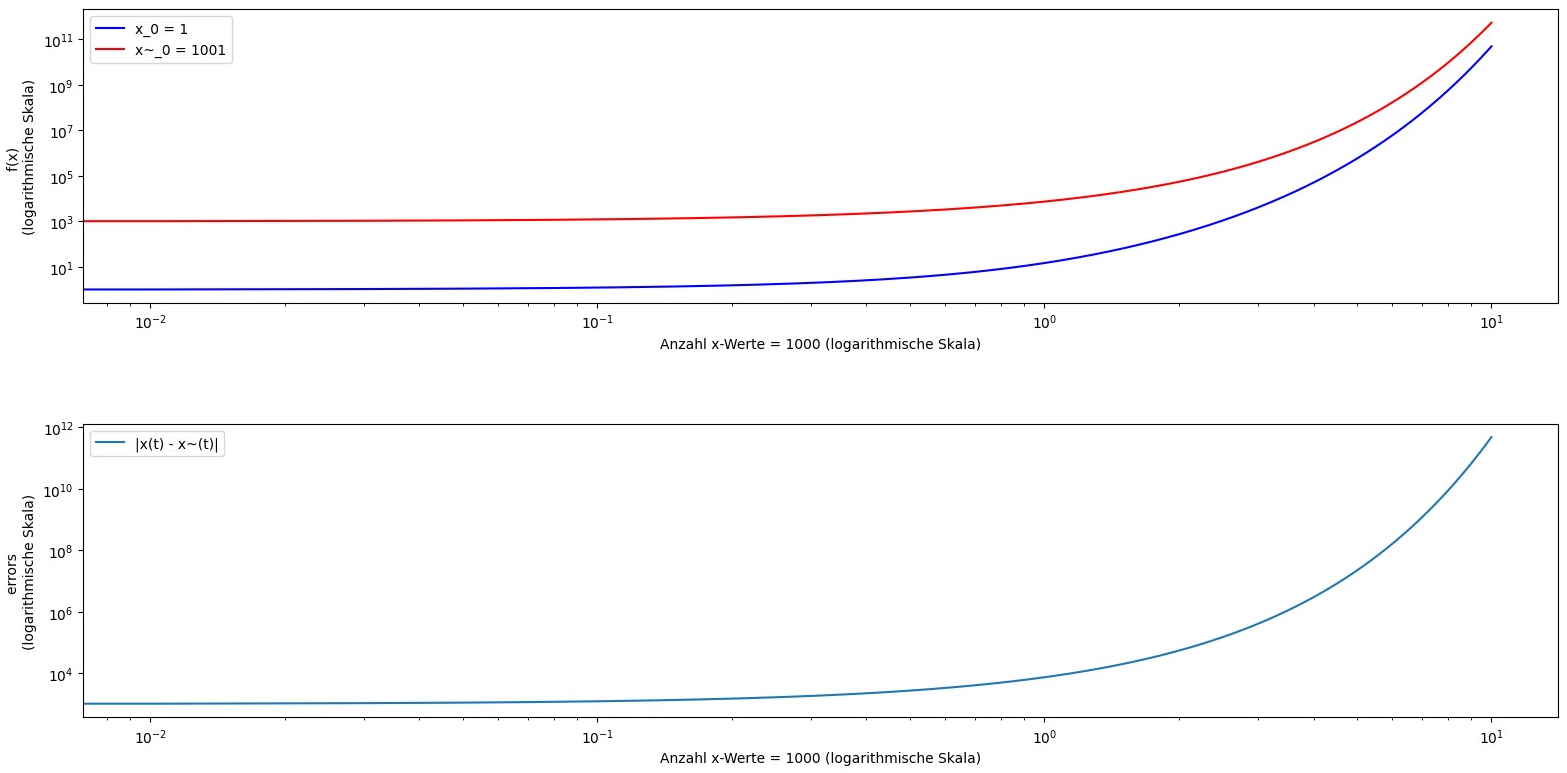
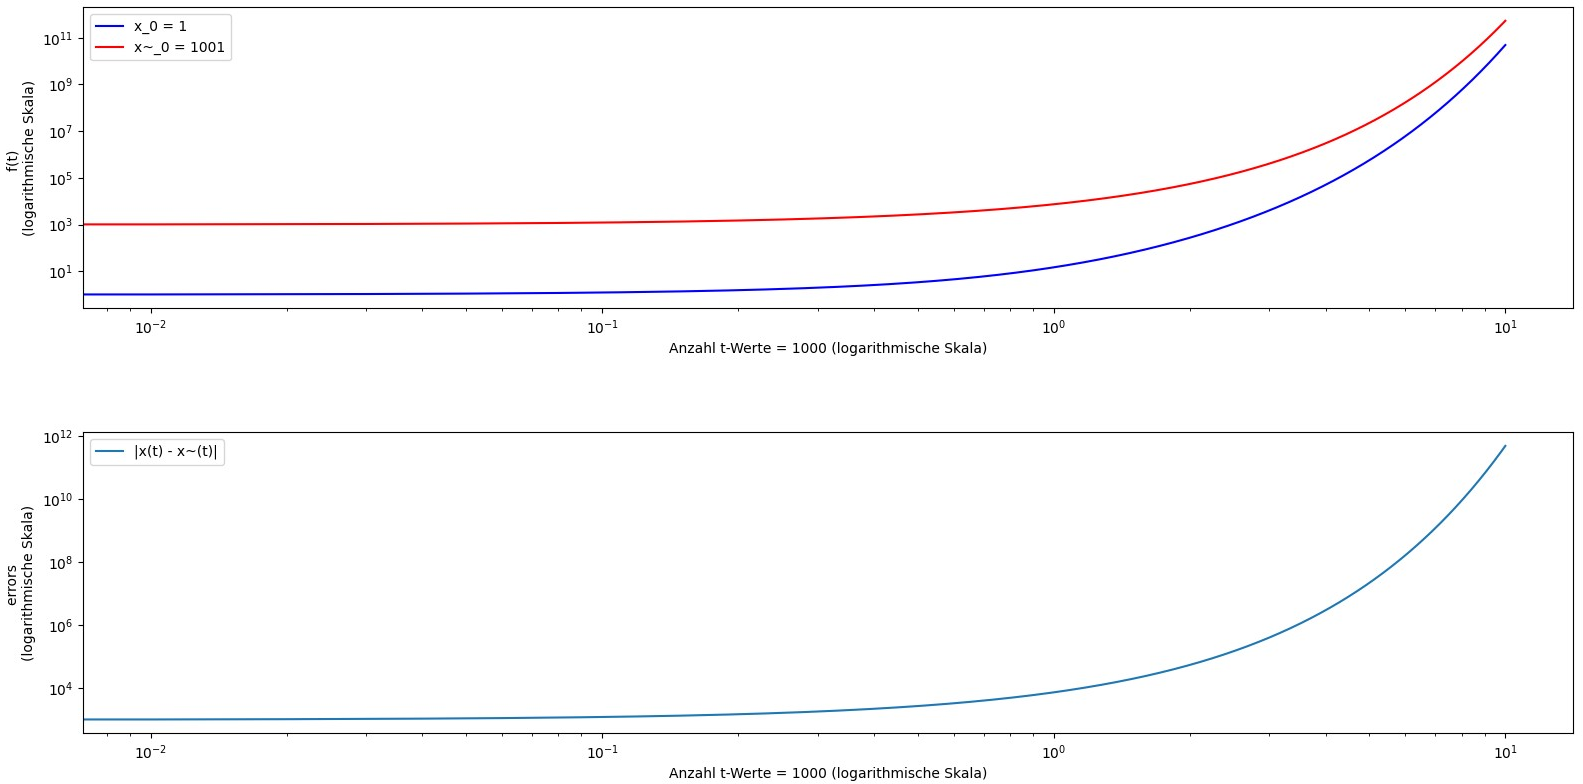
korrektur von Benennungen

diff --git a/ha_6/run_6_3.py b/ha_6/run_6_3.py
@@ -25,15 +25,15 @@ plt.loglog(xvalues, yvalues01, 'b', label='x_0 = 1')
 plt.loglog(xvalues, yvalues02, 'r', label='x~_0 = 1001')
 
 plt.legend()
-plt.xlabel('Anzahl x-Werte = %i (logarithmische Skala)' % T_)
-plt.ylabel('f(x) \n(logarithmische Skala)')
+plt.xlabel('Anzahl t-Werte = %i (logarithmische Skala)' % T_)
+plt.ylabel('f(t) \n(logarithmische Skala)')
 
 plt.subplot(2,1,2)
 # Graf für |x(t) - x~(t)|
 plt.loglog(xvalues, error, label='|x(t) - x~(t)|')
 
 plt.legend()
-plt.xlabel('Anzahl x-Werte = %i (logarithmische Skala)' % T_)
+plt.xlabel('Anzahl t-Werte = %i (logarithmische Skala)' % T_)
 plt.ylabel('errors \n(logarithmische Skala)')
 
 plt.tight_layout()
